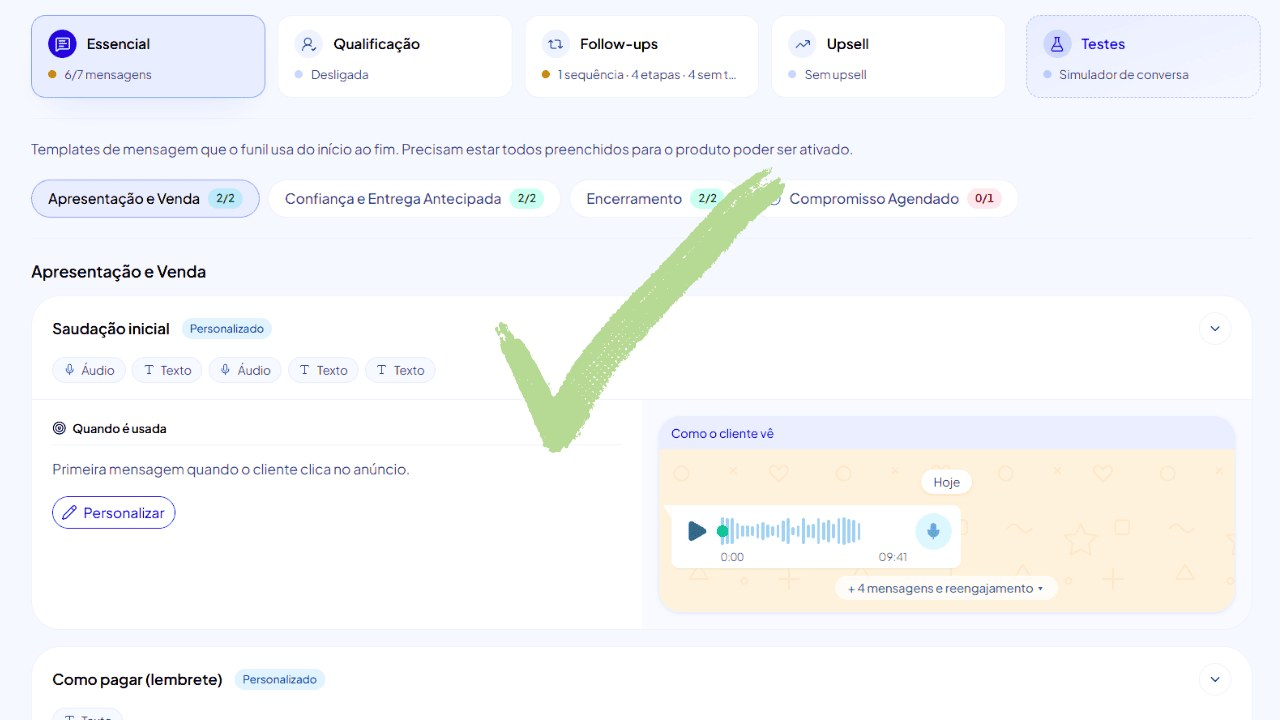
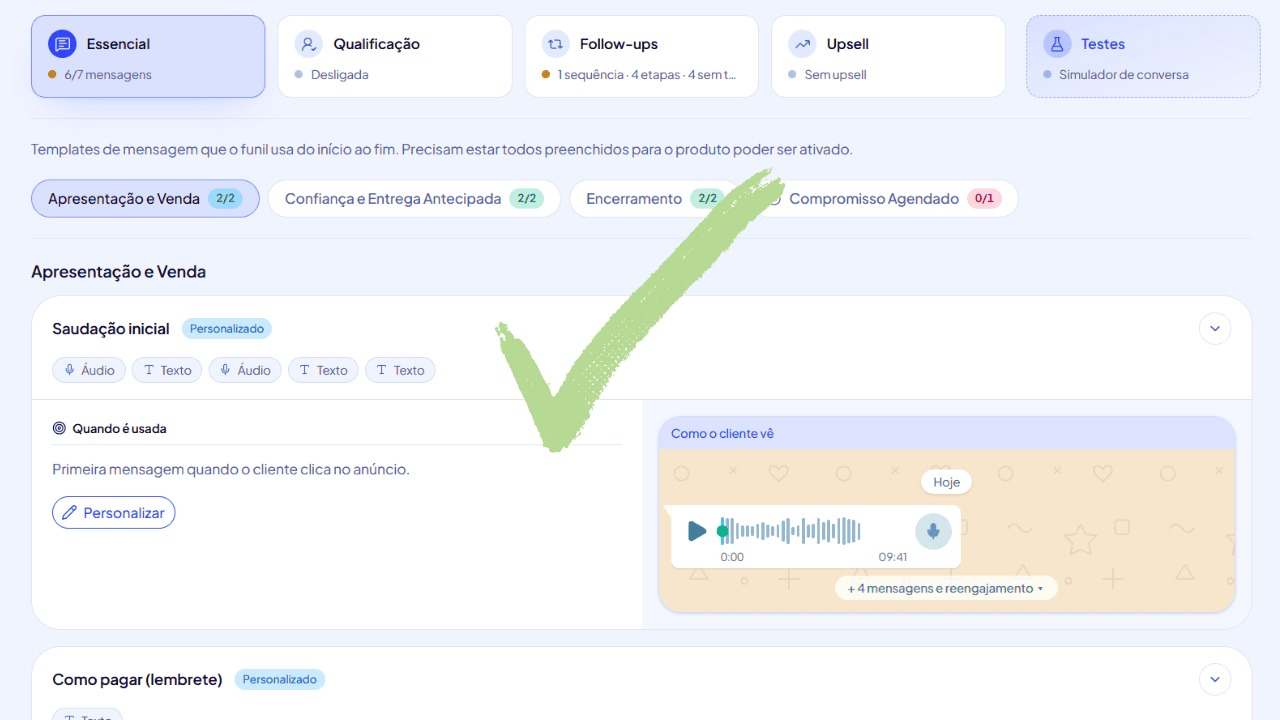
Diferencial: imagem do painel mais nítida
Claude-Session: https://claude.ai/code/session_014KMvjcAdVqhvGUpzwMGmsZ

diff --git a/index.html b/index.html
@@ -369,7 +369,7 @@
 
     <article class="side drs">
       <figure class="side-visual vis-drs">
-        <img src="assets/media/diferencial-watseller.jpg" alt="Painel do WatSeller com os passos do funil prontos e os templates de mensagem já preenchidos, marcado com um visto verde" width="1280" height="720" loading="lazy" decoding="async">
+        <img src="assets/media/diferencial-watseller.jpg?v=2" alt="Painel do WatSeller com os passos do funil prontos e os templates de mensagem já preenchidos, marcado com um visto verde" width="1280" height="720" loading="lazy" decoding="async">
       </figure>
       <h3 class="side-label">No WatSeller</h3>
       <p>Você escolhe o tipo de produto. <span class="g">O funil já vem pronto</span> — com atendimento, persuasão, tratamento de objeções, follow-up, pagamento e entrega já configurados.</p>
